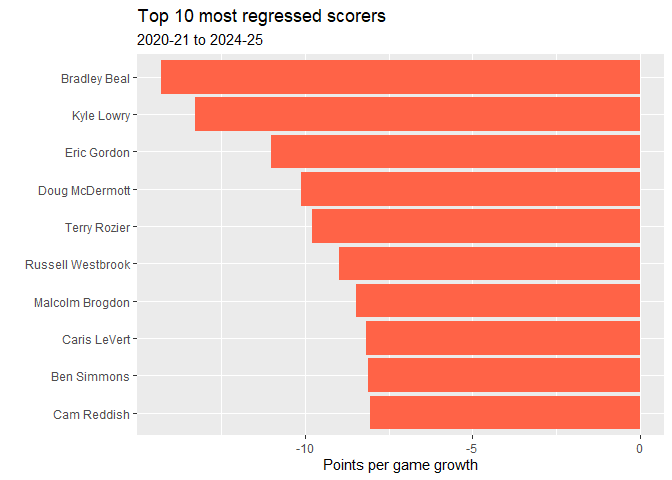
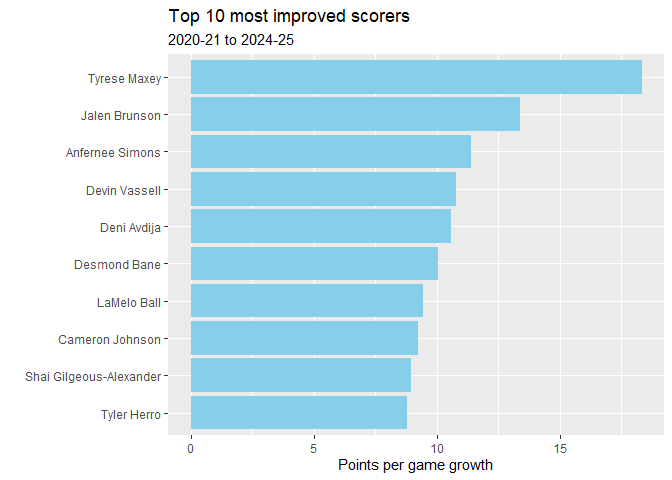
Beefed up two of the questions with better visuals

diff --git a/README.md b/README.md
@@ -216,9 +216,9 @@ master_wide <- master %>%
   select(PLAYER_ID, PLAYER_NAME, SEASON, PTS, REB, AST, STL, BLK,
          FG_PCT, FG3_PCT, FT_PCT, TOV, PLUS_MINUS) %>%
   pivot_wider(
-    names_from  = SEASON,
+    names_from = SEASON,
     values_from = c(PTS, REB, AST, STL, BLK, FG_PCT, FG3_PCT, FT_PCT, TOV, PLUS_MINUS),
-    names_glue  = "{.value}_{SEASON}"
+    names_glue = "{.value}_{SEASON}"
   )
 ```
 
@@ -310,7 +310,7 @@ more minutes, they would generally score more than people who didn’t,
 and take notes of outliers. We made a scatterplot that looks at all the
 seasons in our dataset with a trend line to see if minutes per game can
 actually predict points scored in a game. Players who score higher than
-30 points per game will be labeled differently, marked as red dots. We
+25 points per game will be labeled differently, marked as red dots. We
 originally labeled names but it just looks too cluttered, and if we
 forced them not to overlap a top of names went unseen.
 
@@ -382,7 +382,7 @@ master %>%
   )) %>%
   ggplot(aes(x = PTS, y = PLUS_MINUS, color = highlight)) +
   geom_point(alpha = 0.5) +
-  geom_hline(yintercept = 0, linetype = "dashed", color = "grey") +
+  geom_hline(yintercept = 0, linetype = "dashed", color = "black") +
   geom_text_repel(
     data = . %>% filter(highlight != "Non-outliers"), # otherwise everyone highlighted
     aes(label = PLAYER_NAME),
@@ -397,7 +397,29 @@ master %>%
        x = "Points per game", y = "Plus/Minus")
 ```
 
-![](README_files/figure-gfm/unnamed-chunk-17-1.png)<!-- -->
+![](README_files/figure-gfm/unnamed-chunk-17-1.png)<!-- --> To
+complement the single season view, this bar chart below shows the top 10
+individual plus/minus performances across all 5 seasons with an
+asterisk. Each bar is colored by season, highlighting peak impact
+contributers. Jokic actually had 3 seasons that could make it on this
+graph, (22-23, 23-24, 24-25), but for sake of top 10 players we edited
+the conditions for making it using `with_ties`.
+
+``` r
+master %>%
+  group_by(PLAYER_NAME) %>%
+  slice_max(PLUS_MINUS, n = 1, with_ties = FALSE) %>%
+  ungroup() %>%
+  slice_max(PLUS_MINUS, n = 10, with_ties = FALSE) %>%
+  ggplot(aes(x = reorder(PLAYER_NAME, PLUS_MINUS), y = PLUS_MINUS, fill = SEASON)) +
+  geom_col() +
+  coord_flip() + # looks so much cooler like this
+  labs(title = "Top 10 single season Plus/Minus performances",
+       subtitle = "Across all 5 seasons",
+       x = "", y = "Plus/Minus", fill = "Season")
+```
+
+![](README_files/figure-gfm/unnamed-chunk-18-1.png)<!-- -->
 
 ### Which players improved or regressed the most in scoring?
 
@@ -421,7 +443,7 @@ master_wide %>%
        x = "", y = "Points per game growth")
 ```
 
-![](README_files/figure-gfm/unnamed-chunk-18-1.png)<!-- -->
+![](README_files/figure-gfm/unnamed-chunk-19-1.png)<!-- -->
 
 ``` r
 master_wide %>%
@@ -435,7 +457,31 @@ master_wide %>%
        x = "", y = "Points per game growth")
 ```
 
-![](README_files/figure-gfm/unnamed-chunk-19-1.png)<!-- -->
+![](README_files/figure-gfm/unnamed-chunk-20-1.png)<!-- -->
+
+The scatter below plots every player’s 2020-21 scoring average against
+their 2024-25 average. Players above the diagonal line improved, players
+below it regressed. This tells a much better story than just the top and
+bottom 10, showing the full picture of how scoring output shifted across
+the league over 5 seasons and pointing out the outliers.
+
+``` r
+master_wide %>%
+  filter(!is.na(PTS_growth)) %>%
+  ggplot(aes(x = `PTS_2020-21`, y = `PTS_2024-25`)) +
+  geom_point(alpha = 0.4, color = "blue") +
+  geom_abline(slope = 1, intercept = 0, linetype = "dashed", color = "black") + # sloped line
+  geom_text(
+    data = . %>% filter(PTS_growth > 10 | PTS_growth < -8),
+    aes(label = PLAYER_NAME),
+    size = 2.5, vjust = -0.5, check_overlap = TRUE
+  ) +
+  labs(title = "Scoring Average: 2020-21 vs 2024-25",
+       subtitle = "Players above the line improved, below regressed",
+       x = "Points per game 2020-21", y = "Points per game 2024-25")
+```
+
+![](README_files/figure-gfm/unnamed-chunk-21-1.png)<!-- -->
 
 ### How has Luka Doncic developed season to season?
 
